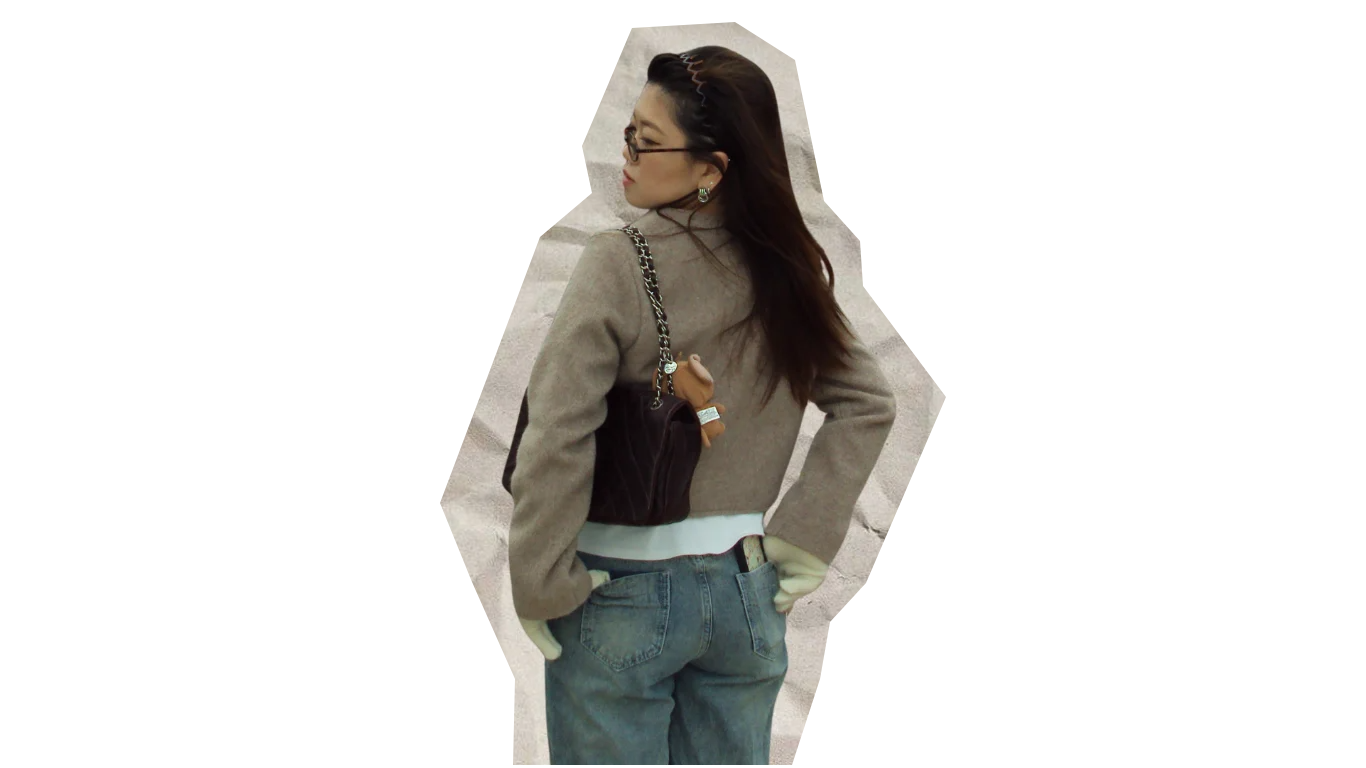
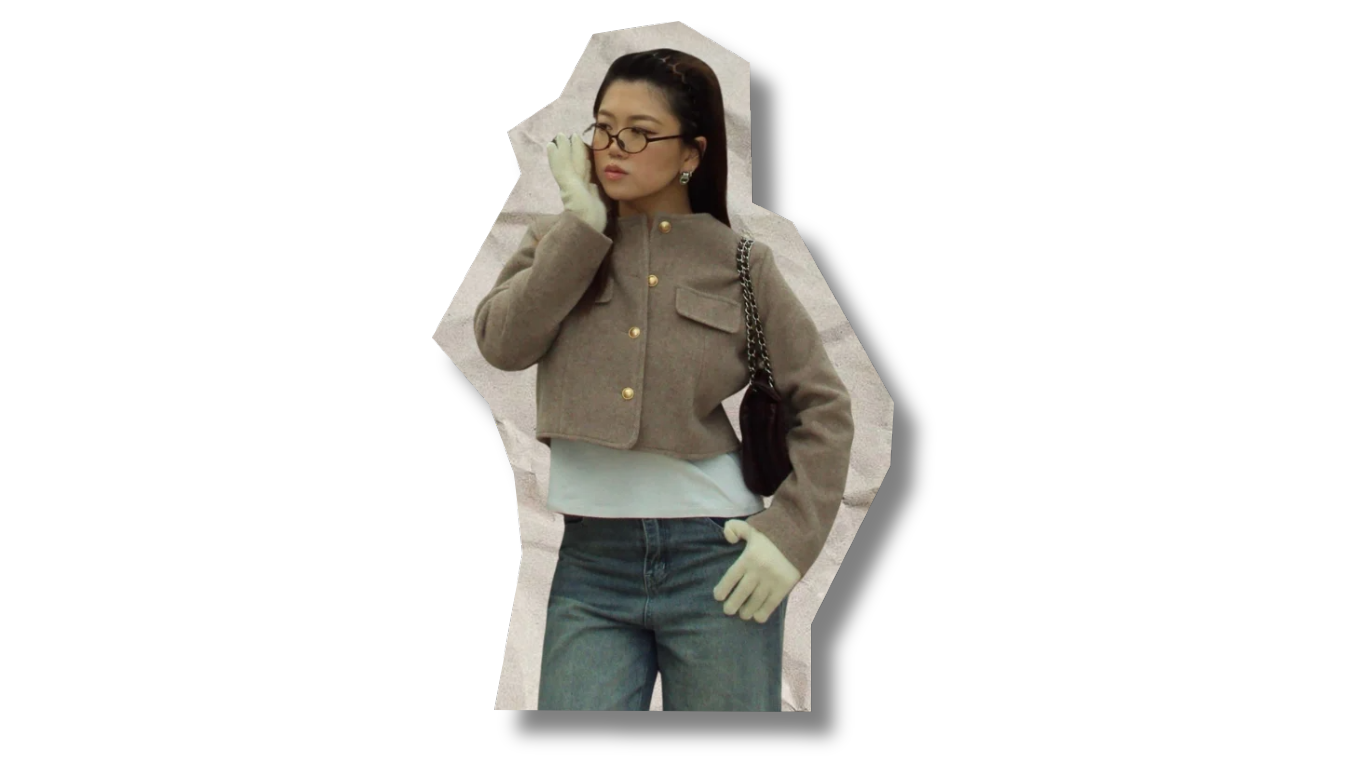
new about photos, 0.25s flip, single-line heading, remove box shadow

Changed region(s): [[0.3075, 0.0312, 0.7072, 1.0]]

diff --git a/app/page.tsx b/app/page.tsx
@@ -168,7 +168,7 @@ export default function Home() {
 
           <div className="absolute inset-0 flex flex-col items-center justify-end text-center px-6 pb-24" style={{ zIndex: 3 }}>
             <div className={`hero-item${heroVisible ? " hero-visible" : ""}`} style={{ transitionDelay: "0.2s" }}>
-              <TypingText lines={["Calista", "Suherman"]} style={{ fontFamily: "var(--font-pinyon)", fontSize: "clamp(3rem, 10vw, 7rem)", fontWeight: "normal", color: "#8B0000", lineHeight: 0.95, display: "block", textShadow: "0 4px 24px rgba(0,0,0,0.45), 0 1px 6px rgba(0,0,0,0.3)" }} />
+              <TypingText lines={["Calista", "Suherman"]} style={{ fontFamily: "var(--font-pinyon)", fontSize: "clamp(3rem, 10vw, 7rem)", fontWeight: "normal", color: "#960018", lineHeight: 0.95, display: "block", textShadow: "0 4px 24px rgba(0,0,0,0.45), 0 1px 6px rgba(0,0,0,0.3)" }} />
             </div>
 
             <p
@@ -209,8 +209,8 @@ export default function Home() {
 
             <Reveal className="order-1" direction="left">
               <h2
-                className="leading-none mb-10"
-                style={{ fontFamily: "var(--font-pinyon)", fontSize: "clamp(3rem, 8vw, 6rem)", fontWeight: 400, color: "#f5f0f0" }}
+                className="leading-none mb-10 whitespace-nowrap"
+                style={{ fontFamily: "var(--font-pinyon)", fontSize: "clamp(2rem, 5vw, 4.5rem)", fontWeight: 400, color: "#960018" }}
               >
                 Who&apos;s that star?
               </h2>
@@ -367,6 +367,14 @@ export default function Home() {
                 className="font-inter text-[10px] uppercase tracking-[0.25em] text-text-muted hover:text-text-primary border-b border-transparent hover:border-text-muted pb-0.5 transition-all duration-300"
               >
                 YouTube
+              </a>
+              <a
+                href="https://www.tiktok.com/@cal1star?is_from_webapp=1&sender_device=pc"
+                target="_blank"
+                rel="noopener noreferrer"
+                className="font-inter text-[10px] uppercase tracking-[0.25em] text-text-muted hover:text-text-primary border-b border-transparent hover:border-text-muted pb-0.5 transition-all duration-300"
+              >
+                TikTok
               </a>
             </div>
           </Reveal>
@@ -595,12 +603,12 @@ function TrayItem({
 function FlipPhoto() {
   const [show, setShow] = useState(false);
   useEffect(() => {
-    const t = setInterval(() => setShow(s => !s), 2000);
+    const t = setInterval(() => setShow(s => !s), 250);
     return () => clearInterval(t);
   }, []);
   return (
-    <div className="relative overflow-hidden rounded-2xl" style={{ width: "clamp(260px, 32vw, 420px)", height: "clamp(340px, 42vw, 560px)", border: "1px solid rgba(139,0,0,0.25)", boxShadow: "0 8px 40px rgba(0,0,0,0.45), 0 2px 12px rgba(0,0,0,0.25)" }}>
-      <Image src={show ? "/about-photo2.png" : "/about-photo1.png"} alt="Calista Suherman" fill className="object-cover object-center" />
+    <div className="relative overflow-hidden rounded-2xl" style={{ width: "clamp(260px, 32vw, 420px)", height: "clamp(340px, 42vw, 560px)", border: "none" }}>
+      <Image src={show ? "/about-photo2.png" : "/about-photo1.png"} alt="Calista Suherman" fill className="object-cover object-top" />
     </div>
   );
 }
